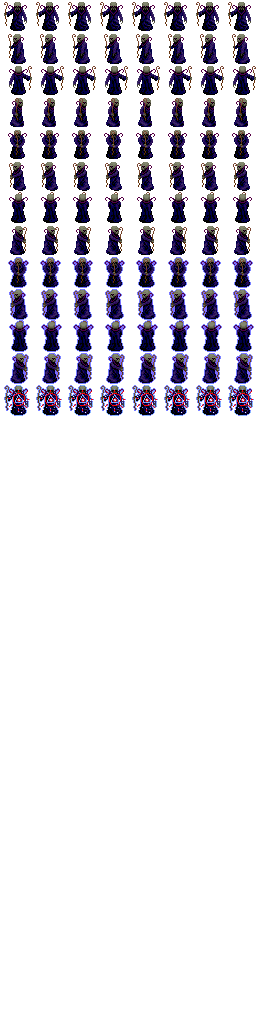
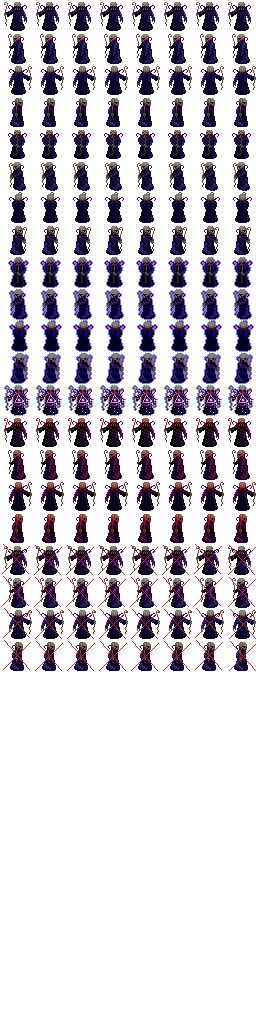
cometa

Changed region(s): [[0.0, 0.4062, 1.0, 0.6562]]

diff --git a/SwampMonster/src/com/me/swampmonster/utils/Constants.java b/SwampMonster/src/com/me/swampmonster/utils/Constants.java
@@ -53,11 +53,11 @@ public class Constants {
 	public static final String DamageTrap_Name = "Damage Trap";
 	public static final int DamageTrap_unlockScore = 0;
 	
-	public static final int DamageTrap_CoolDown_L1 = 1800;
-	public static final int DamageTrap_CoolDown_L2 = 1800;
-	public static final int DamageTrap_CoolDown_L3 = 1500;
-	public static final int DamageTrap_CoolDown_L4 = 1200;
-	public static final int DamageTrap_CoolDown_L5 = 1200;
+	public static final int DamageTrap_CoolDown_L1 = 900;
+	public static final int DamageTrap_CoolDown_L2 = 900;
+	public static final int DamageTrap_CoolDown_L3 = 720;
+	public static final int DamageTrap_CoolDown_L4 = 600;
+	public static final int DamageTrap_CoolDown_L5 = 600;
 
 	public static final float DamageTrap_Damage_L1 = 2f;
 	public static final float DamageTrap_Damage_L2 = 2f;
@@ -279,11 +279,11 @@ public class Constants {
 	public static final String FrostTrap_Name = "Frost Trap";
 	public static final int FrostTrap_unlockScore = 1500;
 
-	public static final int FrostTrap_CoolDown_L1 = 1800;
-	public static final int FrostTrap_CoolDown_L2 = 1800;
-	public static final int FrostTrap_CoolDown_L3 = 1500;
-	public static final int FrostTrap_CoolDown_L4 = 1200;
-	public static final int FrostTrap_CoolDown_L5 = 900;
+	public static final int FrostTrap_CoolDown_L1 = 900;
+	public static final int FrostTrap_CoolDown_L2 = 900;
+	public static final int FrostTrap_CoolDown_L3 = 720;
+	public static final int FrostTrap_CoolDown_L4 = 720;
+	public static final int FrostTrap_CoolDown_L5 = 600;
 
 	public static final int FrostTrap_LifeTime_L1 = 900;
 	public static final int FrostTrap_LifeTime_L2 = 900;
@@ -471,11 +471,11 @@ public class Constants {
 	public static final String PoisonTrap_Name = "Position Trap";
 	public static final int PoisonTrap_unlockScore = 4200;
 
-	public static final int PoisonTrap_CoolDown_L1 = 1800;
-	public static final int PoisonTrap_CoolDown_L2 = 1800;
-	public static final int PoisonTrap_CoolDown_L3 = 1500;
-	public static final int PoisonTrap_CoolDown_L4 = 1500;
-	public static final int PoisonTrap_CoolDown_L5 = 1200;
+	public static final int PoisonTrap_CoolDown_L1 = 900;
+	public static final int PoisonTrap_CoolDown_L2 = 900;
+	public static final int PoisonTrap_CoolDown_L3 = 720;
+	public static final int PoisonTrap_CoolDown_L4 = 720;
+	public static final int PoisonTrap_CoolDown_L5 = 600;
 
 	public static final int PoisonTrap_Radius_L1 = 12;
 	public static final int PoisonTrap_Radius_L2 = 12;
@@ -533,20 +533,20 @@ public class Constants {
 	public static final int RADIOACTIVE_CoolDown_L5 = 900;
 
 	public static final int RADIOACTIVE_Damage_L1 = 1;
-	public static final int RADIOACTIVE_Damage_L2 = 2;
+	public static final int RADIOACTIVE_Damage_L2 = 1;
 	public static final int RADIOACTIVE_Damage_L3 = 2;
-	public static final int RADIOACTIVE_Damage_L4 = 3;
-	public static final int RADIOACTIVE_Damage_L5 = 4;
+	public static final int RADIOACTIVE_Damage_L4 = 2;
+	public static final int RADIOACTIVE_Damage_L5 = 2;
 
-	public static final int RADIOACTIVE_LifeTime_L1 = 300;
-	public static final int RADIOACTIVE_LifeTime_L2 = 500;
-	public static final int RADIOACTIVE_LifeTime_L3 = 700;
+	public static final int RADIOACTIVE_LifeTime_L1 = 600;
+	public static final int RADIOACTIVE_LifeTime_L2 = 600;
+	public static final int RADIOACTIVE_LifeTime_L3 = 900;
 	public static final int RADIOACTIVE_LifeTime_L4 = 900;
-	public static final int RADIOACTIVE_LifeTime_L5 = 1220;
+	public static final int RADIOACTIVE_LifeTime_L5 = 1200;
 
 	public static final float RADIOACTIVE_Radius_L1 = 16;
 	public static final float RADIOACTIVE_Radius_L2 = 20;
-	public static final float RADIOACTIVE_Radius_L3 = 23;
+	public static final float RADIOACTIVE_Radius_L3 = 20;
 	public static final float RADIOACTIVE_Radius_L4 = 24;
 	public static final float RADIOACTIVE_Radius_L5 = 30;
 

diff --git a/SwampMonster/src/com/me/swampmonster/game/L1Renderer.java b/SwampMonster/src/com/me/swampmonster/game/L1Renderer.java
@@ -452,32 +452,32 @@ public class L1Renderer {
 //			sr.circle(L1.plasmaShield.circle.x, L1.plasmaShield.circle.y,
 //					L1.plasmaShield.circle.radius);
 //		}
-//		for (Enemy enemy : L1.enemiesOnStage) {
-//			// sr.setColor(Color.GREEN);
-//			// sr.circle(enemy.getgReenAura().x, enemy.getgReenAura().y,
-//			// enemy.getgReenAura().radius);
-//			// sr.setColor(Color.BLUE);
-//			// sr.circle(enemy.getoRangeAura().x, enemy.getoRangeAura().y,
-//			// enemy.getoRangeAura().radius);
-//			sr.setColor(Color.YELLOW);
-//			sr.circle(enemy.yellowAura.x, enemy.yellowAura.y,
-//					enemy.yellowAura.radius);
-//			// sr.setColor(Color.BLACK);
-//			// sr.circle(theController.explosion.position.x,
-//			// theController.explosion.position.y,
-//			// theController.explosion.explCircle.radius);
-//			// sr.circle(enemy.aimingAura.x, enemy.aimingAura.y,
-//			// enemy.aimingAura.radius);
-//		}
-//
-//		if (L1.player.turret != null) {
-//			sr.rect(L1.player.turret.turretAimerBot.x,
-//					L1.player.turret.turretAimerBot.y,
-//					L1.player.turret.turretAimerBot.width,
-//					L1.player.turret.turretAimerBot.height);
-//			sr.circle(L1.player.turret.circle.x, L1.player.turret.circle.y,
-//					L1.player.turret.circle.radius);
-//		}
+		for (Enemy enemy : L1.enemiesOnStage) {
+			// sr.setColor(Color.GREEN);
+			// sr.circle(enemy.getgReenAura().x, enemy.getgReenAura().y,
+			// enemy.getgReenAura().radius);
+			// sr.setColor(Color.BLUE);
+			// sr.circle(enemy.getoRangeAura().x, enemy.getoRangeAura().y,
+			// enemy.getoRangeAura().radius);
+			sr.setColor(Color.YELLOW);
+			sr.circle(enemy.yellowAura.x, enemy.yellowAura.y,
+					enemy.yellowAura.radius);
+			// sr.setColor(Color.BLACK);
+			// sr.circle(theController.explosion.position.x,
+			// theController.explosion.position.y,
+			// theController.explosion.explCircle.radius);
+			// sr.circle(enemy.aimingAura.x, enemy.aimingAura.y,
+			// enemy.aimingAura.radius);
+		}
+
+		if (L1.player.turret != null) {
+			sr.rect(L1.player.turret.turretAimerBot.x,
+					L1.player.turret.turretAimerBot.y,
+					L1.player.turret.turretAimerBot.width,
+					L1.player.turret.turretAimerBot.height);
+			sr.circle(L1.player.turret.circle.x, L1.player.turret.circle.y,
+					L1.player.turret.circle.radius);
+		}
 //
 //		// for (Projectile p : L1.player.projectiles) {
 //		// if (p != null) {

diff --git a/SwampMonster/src/com/me/swampmonster/utils/Assets.java b/SwampMonster/src/com/me/swampmonster/utils/Assets.java
@@ -15,6 +15,7 @@ public class Assets {
 	public static final AssetDescriptor<Texture> nastyaSpriteGun = new AssetDescriptor<Texture>("data\\EnemyTemp.png", Texture.class);
 	public static final AssetDescriptor<Texture> bow = new AssetDescriptor<Texture>("data\\BowNArrow.png", Texture.class);
 	public static final AssetDescriptor<Texture> enemyLeech = new AssetDescriptor<Texture>("data\\EnemyLeech_new.png", Texture.class);
+	public static final AssetDescriptor<Texture> enemySofa = new AssetDescriptor<Texture>("data\\EnemySOFA.png", Texture.class);
 	public static final AssetDescriptor<Texture> enemyZombie = new AssetDescriptor<Texture>("data\\EnemyZombie_new.png", Texture.class);
 	public static final AssetDescriptor<Texture> aimingAuraSprite = new AssetDescriptor<Texture>("data\\aimingAura.png", Texture.class);
 	public static final AssetDescriptor<Texture> enemyMaggot = new AssetDescriptor<Texture>("data\\EnemyMaggot_new.png", Texture.class);
@@ -47,7 +48,7 @@ public class Assets {
 	public static final AssetDescriptor<Texture> propToxicPuddle = new AssetDescriptor<Texture>("data\\googleSaysItIsAPool.png", Texture.class);
 	public static final AssetDescriptor<Texture> FROZEN_TRAP = new AssetDescriptor<Texture>("data\\Frozen.png", Texture.class);
 	public static final AssetDescriptor<Texture> DAMAGE_TRAP = new AssetDescriptor<Texture>("data\\appleTrap.png", Texture.class);
-	public static final AssetDescriptor<Texture> POISON_TRAP = new AssetDescriptor<Texture>("data\\googleSaysItIsAPool.png", Texture.class);
+	public static final AssetDescriptor<Texture> POISON_TRAP = new AssetDescriptor<Texture>("data\\slotIcons\\POISON_TRAP_ICON.png", Texture.class);
 	
 	public static final AssetDescriptor<Texture> turretImg = new AssetDescriptor<Texture>("data\\turret.png", Texture.class);
 	public static final AssetDescriptor<Texture> plasmaShield = new AssetDescriptor<Texture>("data\\plasmaShieldAnimation.png", Texture.class);
@@ -133,6 +134,7 @@ public class Assets {
 		manager.load(aFinger);
 		manager.load(plasmaShield);
 		manager.load(enemyLeech);
+		manager.load(enemySofa);
 		manager.load(nastyaSpriteStandard);
 		manager.load(nastyaSpriteGun);
 		manager.load(enemyZombie);

diff --git a/SwampMonster/src/com/me/swampmonster/utils/WaveGenerator.java b/SwampMonster/src/com/me/swampmonster/utils/WaveGenerator.java
@@ -17,7 +17,7 @@ public class WaveGenerator {
 		p0_500_Elite			(0,  1,  1,  2,  7,   13,  7,  13, 6,  7,  12.0f,  50,  2,  3),
 		p0_500_A				(4,  5,  0,  2,  10,  17,  0,  1,  6,  7,  12.0f,  50,  2,  3),
 		//                     *-et*+et*-tt*+tt*-ws**+ws*-tw*+tw***-eb*+eb**rate***perd*-w**+w*
-		p500_1000				(0,  1,  0,  2,  15,  23,  8,  16,  6,  7,  12.0f,  50,  2,  3),
+		p500_1000				(0,  2,  0,  2,  15,  23,  8,  16,  6,  7,  12.0f,  50,  2,  3),
 		p500_1000_Elite			(0,  1,  1,  2,  10,  17,  10, 17,  6,  7,  12.0f,  50,  2,  3),
 		p500_1000_A				(4,  5,  0,  2,  15,  23,  0,  1,   6,  7,  12.0f,  50,  2,  3),
 		//     				   *-et*+et*-tt*+tt*-ws**+ws**-tw*+tw**-eb**+eb***rate**perd*-w**+w*
@@ -29,15 +29,15 @@ public class WaveGenerator {
 		p3000_5000_Elite		(0,  3,  1,  4,  18,  30,  18, 30,  15,  25,  6.0f,  50,  3,  5),
 		p3000_5000_A			(4,  5,  0,  4,  18,  30,  3,  11,  15,  25,  6.0f,  50,  3,  5),
 //     						   *-et*+et*-tt*+tt*-ws**+ws*-tw**+tw**-eb**+eb***rate**perd*-w**+w*
-		p5000_7000				(0,  3,  0,  5,  25,  32,  8,  20,  15,  25,  6.0f,  50,  3,  6),
+		p5000_7000				(0,  4,  0,  5,  25,  32,  8,  20,  15,  25,  6.0f,  50,  3,  6),
 		p5000_7000_Elite		(0,  3,  1,  5,  25,  32,  25, 35,  15,  25,  6.0f,  50,  3,  6),
 		p5000_7000_A			(4,  5,  0,  5,  25,  32,  8,  20,  15,  25,  6.0f,  50,  3,  6),
 //		  					   *-et*+et*-tt*+tt*-ws**+ws**-tw**+tw**-eb**+eb***rate**perd*-w**+w*	
-		p7000_9000				(0,  3,  0,  5,  32,  48,  14,  26,  15,  25,  3.0f,  50,  4,  7),
+		p7000_9000				(0,  4,  0,  5,  32,  48,  14,  26,  15,  25,  3.0f,  50,  4,  7),
 		p7000_9000_Elite		(0,  3,  1,  5,  32,  48,  32,  48,  15,  25,  3.0f,  50,  4,  7),
 		p7000_9000_A			(4,  5,  0,  5,  40,  40,  14,  26,  15,  25,  3.0f,  50,  4,  7),
 //							   *-et*+et*-tt*+tt*-ws**+ws**-tw**+tw**-eb**+eb***rate**perd*-w**+w*	
-		p9000_0					(0,  3,  0,  5,  40,  52,  18,  29,  20,  35,  1.0f,  50,  5,  7),
+		p9000_0					(0,  4,  0,  5,  40,  52,  18,  29,  20,  35,  1.0f,  50,  5,  7),
 		p9000_0_Elite			(0,  3,  1,  5,  40,  52,  40,  52,  20,  35,  1.0f,  50,  5,  7),
 		p9000_0_A				(4,  5,  0,  5,  40,  52,  18,  29,  20,  35,  1.0f,  50,  5,  7);
 			

diff --git a/SwampMonster/src/com/me/swampmonster/utils/ItemGenerator.java b/SwampMonster/src/com/me/swampmonster/utils/ItemGenerator.java
@@ -44,10 +44,10 @@ public class ItemGenerator {
 	}
 	
 	private static enum Items{
-		p0_500(2, 12),
-		p500_1000(2, 12),
-		p1000_2000(2, 12),
-		p2000_4000(2, 12);
+		p0_500(2, 8),
+		p500_1500(2, 10),
+		p1500_3000(2, 11),
+		p3000_plus(2, 12);
 		
 		public int minItemGenerate;
 		public int maxItemGenerate;
@@ -64,15 +64,15 @@ public class ItemGenerator {
 		items.put(0, Oxygen.class);
 		items.put(1, HealthKit.class);
 		items.put(2, FADE.class);
-		items.put(3, CHAIN_ARROWS.class);
-		items.put(4, HASTE.class);
-		items.put(5, ICE_THING.class);
-		items.put(6, NUKE.class);
-		items.put(7, RADIOACTIVE.class);
-		items.put(8, WEAKENED.class);
-		items.put(9, POISONED.class);
-		items.put(10, SCARED.class);
-		items.put(11, SLOWED.class);
+		items.put(3, ICE_THING.class);
+		items.put(4, NUKE.class);
+		items.put(5, POISONED.class);
+		items.put(6, SCARED.class);
+		items.put(7, HASTE.class);
+		items.put(8, SLOWED.class);
+		items.put(9, CHAIN_ARROWS.class);
+		items.put(10, WEAKENED.class);
+		items.put(11, RADIOACTIVE.class);
 	}
 	
 	public Item getItem(int playersScore){
@@ -138,14 +138,14 @@ public class ItemGenerator {
 		if(playersScore>=0 && playersScore<500){
 			itEmsTypes = Items.p0_500;
 		}
-		else if(playersScore>=100 && playersScore<1000){
-			itEmsTypes = Items.p500_1000;
+		else if(playersScore>=500 && playersScore<1500){
+			itEmsTypes = Items.p500_1500;
 		}
-		else if(playersScore>=1000 && playersScore<2000){
-			itEmsTypes = Items.p1000_2000;
+		else if(playersScore>=1500 && playersScore<3000){
+			itEmsTypes = Items.p1500_3000;
 		}
-		else if(playersScore>=2000){
-			itEmsTypes = Items.p2000_4000;
+		else if(playersScore>=3000){
+			itEmsTypes = Items.p3000_plus;
 		}
 	}
 	

diff --git a/SwampMonster/src/com/me/swampmonster/models/enemies/EnemySofa.java b/SwampMonster/src/com/me/swampmonster/models/enemies/EnemySofa.java
@@ -1,15 +1,43 @@
 package com.me.swampmonster.models.enemies;
 
+import java.util.List;
+
+import com.badlogic.gdx.graphics.g2d.Sprite;
+import com.badlogic.gdx.maps.tiled.TiledMapTileLayer;
+import com.badlogic.gdx.math.Circle;
 import com.badlogic.gdx.math.Vector2;
+import com.me.swampmonster.animations.AnimationControl;
+import com.me.swampmonster.models.Player;
+import com.me.swampmonster.models.AbstractGameObject.State;
+import com.me.swampmonster.utils.Assets;
+import com.me.swampmonster.utils.CameraHelper;
 
 public class EnemySofa extends Enemy {
 
 	public EnemySofa(Vector2 position) {
 		super(position);
+		animationsStandard.put(State.STANDARD, new AnimationControl(Assets.manager.get(Assets.enemySofa), 8, 32, 7)); 
+		animationsStandard.put(State.PURSUIT, new AnimationControl(Assets.manager.get(Assets.enemySofa), 8, 32, 7)); 
+		animationsStandard.put(State.DEAD, new AnimationControl(Assets.manager.get(Assets.enemySofa), 8, 32, 4)); 
+		sprite = new Sprite(animationsStandard.get(state).getCurrentFrame());
+		sprite.scale(1);
 		movementSpeed = 0.5f;
-		health = 4;
-		damage = 2;
-		points = 35;
+		health = 6;
+		damage = 3;
+		points = 50;
+		attackSpeed = 15;
+		STANDART_MOVEMENT_SPEED = movementSpeed;
+		yellowAura = new Circle();
+		yellowAura.radius = 32;
+		yellowAura.x = position.x + sprite.getWidth() / 2;
+		yellowAura.y = position.y + sprite.getHeight() / 2;
+	}
+	@Override
+	public void update(TiledMapTileLayer collisionLayer, Player player,
+			CameraHelper cameraHelper, List<Enemy> enemies){
+		super.update(collisionLayer, player, cameraHelper, enemies);
+		yellowAura.x = position.x;
+		yellowAura.y = position.y;
 	}
 
 }

diff --git a/SwampMonster/src/com/me/swampmonster/utils/EnemyGenerator.java b/SwampMonster/src/com/me/swampmonster/utils/EnemyGenerator.java
@@ -81,13 +81,13 @@ public class EnemyGenerator {
 	}
 
 	public enum Toughness {
-		ARMORED_GUY (-0.1, 0d, 1d, 25d, 0d, 192f/255, 192f/255, 192f/255, 1f), 
-		SPEEDY_GUY (0.3, 0d, 0d, 25d, 5d, 1f, 1f, 0f, 1f), 
-		ANGRY_GUY (0d, 1d, 0d, 50d, 0d, 220f/255, 20f/255, 60f/255, 1f ), 
-		POISONOUS_GUY (0d, 0d, 0d, 75d, -5d, 124f/255, 252f/255, 0f, 1f), 
-		FREEZER_GUY (0d, 0d, 0d, 75d, 0d, 0f, 191f/255, 1f, 1f),
-		EXPLOSIVE_GUY (0d, 0d, 1d, 100d, 0d, 244f/255, 164f/255, 96f/255, 1f),
-		PLASMA_GUY (0d, 1d, 0d, 150d, 0d, 162f/255, 19/255f, 166f/255, 1f);
+		ARMORED_GUY 	(-0.1, 0d, 1d, 25d, 0d, 192f/255, 192f/255, 192f/255, 1f), 
+		SPEEDY_GUY 		(0.3, 0d, 0d, 25d, 5d, 1f, 1f, 0f, 1f), 
+		ANGRY_GUY 		(0d, 1d, 0d, 50d, 0d, 220f/255, 20f/255, 60f/255, 1f ), 
+		POISONOUS_GUY 	(0d, 0d, 0d, 75d, -5d, 124f/255, 252f/255, 0f, 1f), 
+		FREEZER_GUY 	(0d, 0d, 0d, 75d, 0d, 0f, 191f/255, 1f, 1f),
+		EXPLOSIVE_GUY 	(0d, 0d, 1d, 100d, 0d, 244f/255, 164f/255, 96f/255, 1f),
+		PLASMA_GUY 		(0d, 1d, 0d, 150d, 0d, 162f/255, 19/255f, 166f/255, 1f);
 		
 		public final Double speed;
 		public final Double damage; 

diff --git a/SwampMonster/src/com/me/swampmonster/models/enemies/Enemy.java b/SwampMonster/src/com/me/swampmonster/models/enemies/Enemy.java
@@ -160,8 +160,10 @@ public class Enemy extends AbstractGameObject implements Cloneable, Collidable {
 		aimingAura.y = position.y + sprite.getHeight() / 2;
 		oRangeAura.x = position.x + sprite.getWidth() / 2;
 		oRangeAura.y = position.y + sprite.getHeight() / 2;
-		yellowAura.x = position.x + sprite.getWidth() / 2;
-		yellowAura.y = position.y + sprite.getHeight() / 2;
+		if(!(this instanceof EnemySofa)){
+			yellowAura.x = position.x + sprite.getWidth() / 2;
+			yellowAura.y = position.y + sprite.getHeight() / 2;
+		}
 
 		rectanlge.x = sprite.getX();
 		rectanlge.y = sprite.getY();
@@ -466,7 +468,6 @@ public class Enemy extends AbstractGameObject implements Cloneable, Collidable {
 		while (prj.hasNext()) {
 			Projectile p = prj.next();
 			if (p != null) {
-				p.movementSpeed = 1f;
 				if (p.isCollision(collisionLayer)
 						|| Intersector.overlaps(p.circle, player.aimingArea)) {
 					p.state = State.DEAD;

diff --git a/SwampMonster/src/com/me/swampmonster/models/enemies/EnemyLeech.java b/SwampMonster/src/com/me/swampmonster/models/enemies/EnemyLeech.java
@@ -16,13 +16,15 @@ public class EnemyLeech extends Enemy{
 		
 		animationsStandard.put(State.STANDARD, new AnimationControl(Assets.manager.get(Assets.enemyLeech), 8, 32, 7)); 
 		animationsStandard.put(State.PURSUIT, new AnimationControl(Assets.manager.get(Assets.enemyLeech), 8, 32, 7)); 
+		animationsStandard.put(State.ATTACKING, new AnimationControl(Assets.manager.get(Assets.enemyLeech), 8, 32, 7)); 
+		animationsStandard.put(State.DEAD, new AnimationControl(Assets.manager.get(Assets.enemyLeech), 8, 32, 7)); 
 		
 		yellowAura.radius = yellowAura.radius*20;
 		sprite = new Sprite(animationsStandard.get(state).getCurrentFrame());
 		movementSpeed = 0.4f;
 		health = 2;
 		damage = 2;
-		points = 50;
+		points = 35;
 		attackSpeed = 120;
 		STANDART_MOVEMENT_SPEED = movementSpeed;
 	}

diff --git a/SwampMonster/src/com/me/swampmonster/models/enemies/EnemyMaggot.java b/SwampMonster/src/com/me/swampmonster/models/enemies/EnemyMaggot.java
@@ -171,11 +171,11 @@ public class EnemyMaggot extends Enemy {
 					
 					if (cL == null && savedEnemyDx <= 0 ||
 							cR == null && savedEnemyDx > 0){
-						position.x += savedEnemyDx * movementSpeed*4;
+						position.x += savedEnemyDx * movementSpeed*3;
 					} 
 					if (cD == null && savedEnemyDy < 0 
 							|| cU == null && savedEnemyDy >= 0){
-						position.y += savedEnemyDy * movementSpeed*4;
+						position.y += savedEnemyDy * movementSpeed*3;
 					} 
 					
 //					if (cU == null && savedEnemyDy >= 0){ 

diff --git a/SwampMonster/src/com/me/swampmonster/screens/MenuScreen.java b/SwampMonster/src/com/me/swampmonster/screens/MenuScreen.java
@@ -97,7 +97,7 @@ public class MenuScreen extends AbstractGameScreen{
 		}
 		table = new Table().right();
 		stage = new Stage();
-		Image img = new Image(new Texture("data/ui/wrldcnqr.png"));
+		Image img = new Image(new Texture("data/ui/bgImage.png"));
 		img.toBack();
 		img.setHeight(Constants.VIEWPORT_GUI_HEIGHT);
 		img.setWidth(Constants.VIEWPORT_GUI_WIDTH);

diff --git a/SwampMonster/src/com/me/swampmonster/models/enemies/EnemyZombie.java b/SwampMonster/src/com/me/swampmonster/models/enemies/EnemyZombie.java
@@ -17,7 +17,8 @@ public class EnemyZombie extends Enemy{
 		health = 3;
 		damage = 2;
 		points = 15;
-		movementSpeed = 0.25f;
+		movementSpeed = 0.4f;
 		attackSpeed = 50;
+		yellowAura.radius = 16;
 	}
 }
